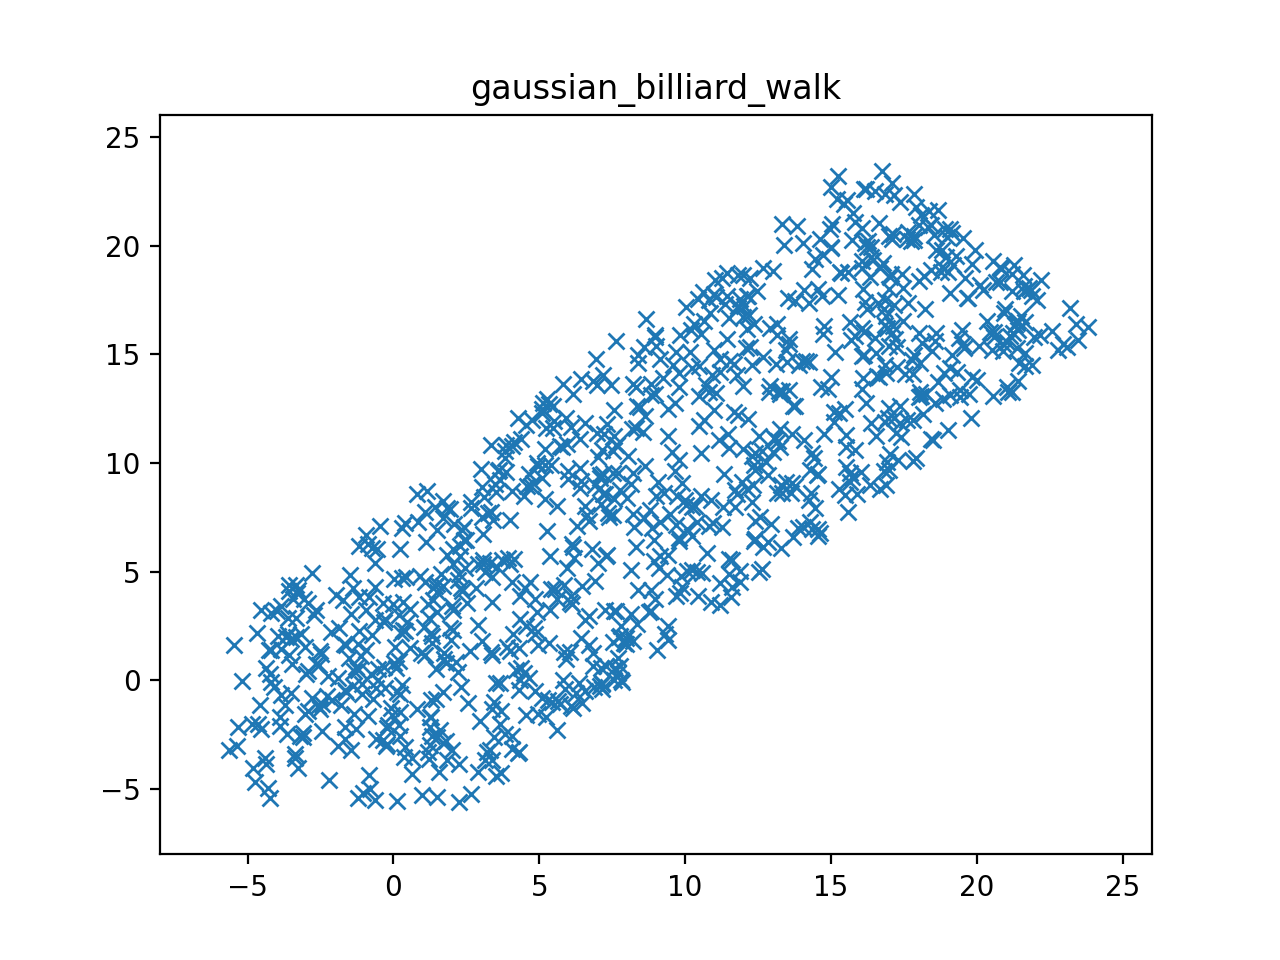
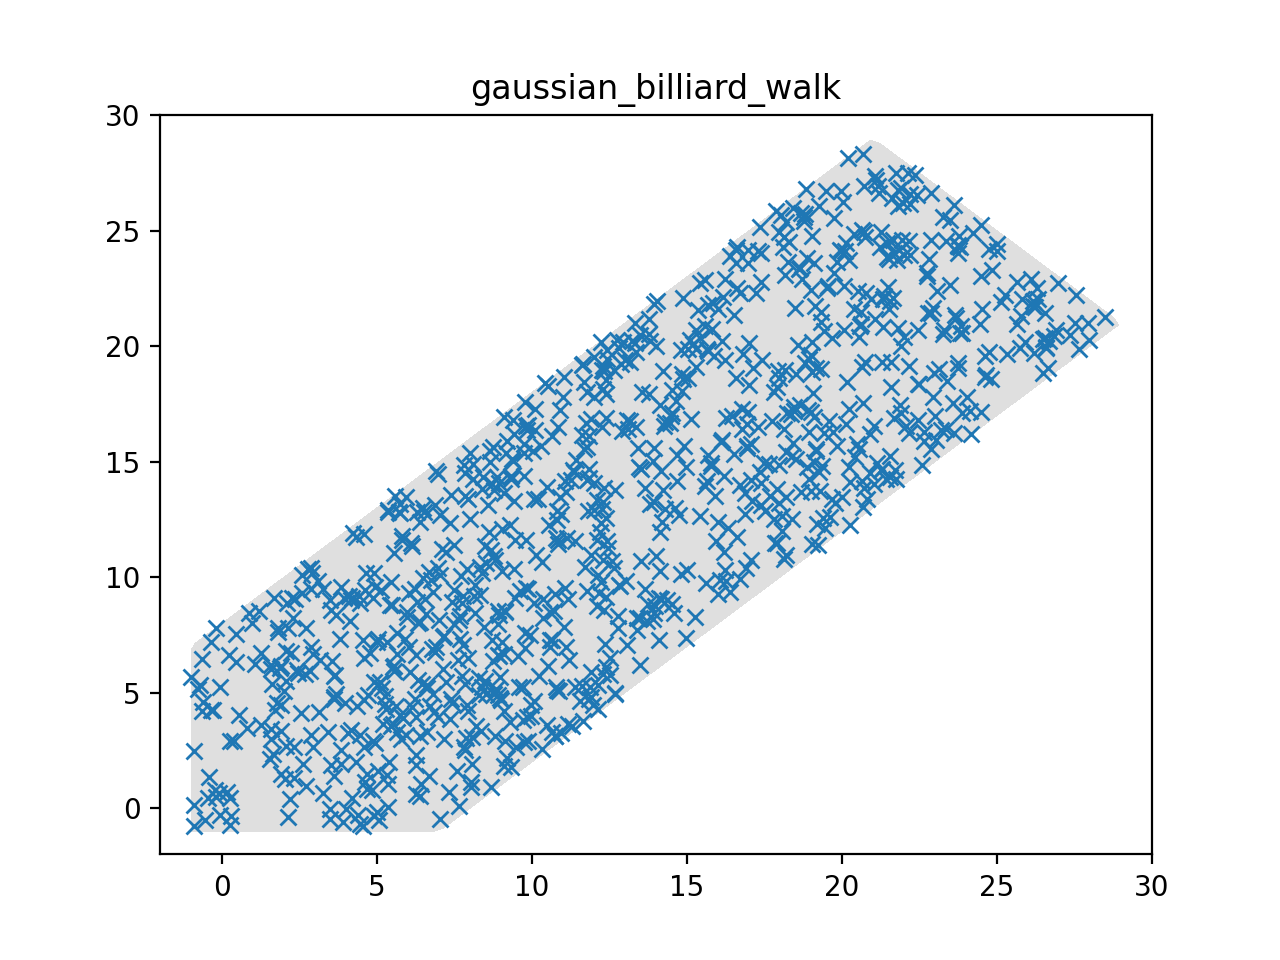
minor change in example

diff --git a/examples/sampling-hpolytope-with-billiard-walks/plot.py b/examples/sampling-hpolytope-with-billiard-walks/plot.py
@@ -30,11 +30,11 @@ for filename in filenames:
     x1_vec, x2_vec = np.meshgrid(np.linspace(-1, 30, 100), np.linspace(-1, 30, 100))
     vals = get_polytope_vals(x1_vec.ravel(), x2_vec.ravel())
     vals = vals.reshape(x1_vec.shape)
-    plt.contourf(x1_vec, x2_vec, vals, levels=[-100, 0], cmap="Greys_r", alpha=0.5)
+    plt.contourf(x1_vec, x2_vec, vals, levels=[-100, 0], cmap="Greys_r", alpha=0.3)
 
     # plot points
     data = np.genfromtxt(filename, delimiter=' ')
-    plt.plot(data[:, 0], data[:, 1], 'x', c='g')
+    plt.plot(data[:, 0], data[:, 1], 'x')
     plt.xlim(-2, 30)
     plt.ylim(-2, 30)
     plt.title(filename[:-4])
